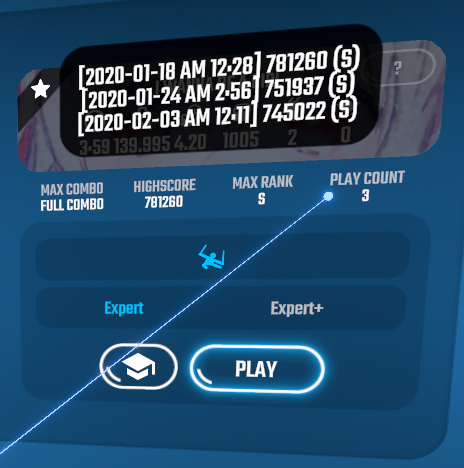
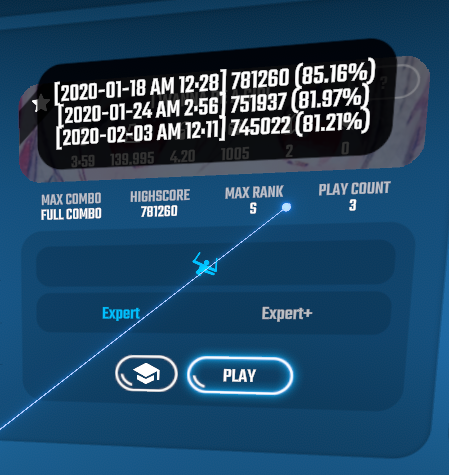
Show by percentage and fix bugs
- Do not save failed records

diff --git a/SongPlayHistory/PlayerStatsUIOverload.cs b/SongPlayHistory/PlayerStatsUIOverload.cs
@@ -14,9 +14,9 @@ namespace SongPlayHistory
     {
         public static PlayerStatsUIOverload Instance;
 
+        private bool _isInitialized = false;
         private StandardLevelDetailViewController _levelDetailViewController;
         private GameObject _playerStatsContainer;
-        private Button _hiddenButton;
         private HoverHint _hoverHint;
         private RectTransform _playCountRect;
 
@@ -97,6 +97,9 @@ namespace SongPlayHistory
 
         private void Initialize()
         {
+            if (_isInitialized)
+                return;
+
             // Find components of our interest.
             var flowCoordinator = Resources.FindObjectsOfTypeAll<SoloFreePlayFlowCoordinator>().First();
             var resultsViewController = flowCoordinator.GetPrivateField<ResultsViewController>("_resultsViewController");
@@ -106,22 +109,19 @@ namespace SongPlayHistory
             _playerStatsContainer = standardLevelDetailView.GetPrivateField<GameObject>("_playerStatsContainer");
 
             // Create a virtual button for score display.
-            if (_hiddenButton == null)
+            var playButton = Resources.FindObjectsOfTypeAll<Button>().First(x => x.name == "PlayButton");
+            var hiddenButton = Instantiate(playButton, _playerStatsContainer.transform);
+            (hiddenButton.transform as RectTransform).SetInsetAndSizeFromParentEdge(RectTransform.Edge.Left, 0.0f, 70.0f);
+            foreach (var tf in hiddenButton.GetComponentsInChildren<Transform>())
             {
-                var playButton = Resources.FindObjectsOfTypeAll<Button>().First(x => x.name == "PlayButton");
-                _hiddenButton = Instantiate(playButton, _playerStatsContainer.transform);
-                (_hiddenButton.transform as RectTransform).SetInsetAndSizeFromParentEdge(RectTransform.Edge.Left, 0.0f, 70.0f);
-                foreach (var tf in _hiddenButton.GetComponentsInChildren<Transform>())
-                {
-                    if (new[] { "BG", "GlowContainer", "Stroke", "Text" }.Contains(tf.name))
-                        Destroy(tf.gameObject);
-                }
-                var hoverHintController = Resources.FindObjectsOfTypeAll<HoverHintController>().First();
-                var hoverHintHolder = _hiddenButton.GetComponentsInChildren<StackLayoutGroup>().First();
-                _hoverHint = hoverHintHolder.gameObject.AddComponent<HoverHint>();
-                _hoverHint.SetPrivateField("_hoverHintController", hoverHintController);
-                _hoverHint.name = name;
+                if (new[] { "BG", "GlowContainer", "Stroke", "Text" }.Contains(tf.name))
+                    Destroy(tf.gameObject);
             }
+            var hoverHintController = Resources.FindObjectsOfTypeAll<HoverHintController>().First();
+            var hoverHintHolder = hiddenButton.GetComponentsInChildren<StackLayoutGroup>().First();
+            _hoverHint = hoverHintHolder.gameObject.AddComponent<HoverHint>();
+            _hoverHint.SetPrivateField("_hoverHintController", hoverHintController);
+            _hoverHint.name = name;
 
             // Install event handlers.
             _levelDetailViewController.didChangeDifficultyBeatmapEvent -= OnDidChangeDifficultyBeatmap;
@@ -134,6 +134,7 @@ namespace SongPlayHistory
             resultsViewController.restartButtonPressedEvent += OnPlayResultDismiss;
 
             Logger.Log?.Debug($"Finished initializing {name}.");
+            _isInitialized = true;
         }
 
         internal void Refresh()
@@ -160,15 +161,18 @@ namespace SongPlayHistory
             if (config.Scores.TryGetValue(difficulty, out IList<Score> scoreList))
             {
                 // Note: Max lines = 9
-                var scores = scoreList.OrderByDescending(s => config.SortByDate ? s.Date : s.ModifiedScore).Take(9);
-                if (scores.Count() > 0)
+                var orderedList = scoreList.OrderByDescending(s => config.SortByDate ? s.Date : s.ModifiedScore).Take(9);
+                if (orderedList.Count() > 0)
                 {
+                    var maxRawScore = ScoreController.MaxRawScoreForNumberOfNotes(beatmap.beatmapData.notesCount);
                     StringBuilder builder = new StringBuilder(200);
 
-                    foreach (var score in scores)
+                    foreach (var elem in orderedList)
                     {
-                        var localDateTime = DateTimeOffset.FromUnixTimeMilliseconds(score.Date).LocalDateTime;
-                        builder.AppendLine($"[{localDateTime.ToString("g")}] {score.ModifiedScore} ({(RankModel.Rank)score.Rank})");
+                        var localDateTime = DateTimeOffset.FromUnixTimeMilliseconds(elem.Date).LocalDateTime;
+                        var modifiedScore = elem.ModifiedScore + (elem.RawScore != elem.ModifiedScore ? "*" : "");
+                        var accuracy = elem.RawScore / (float)maxRawScore * 100f;
+                        builder.AppendLine($"[{localDateTime.ToString("g")}] {modifiedScore} ({accuracy:0.00}%)");
                     }
 
                     _hoverHint.text = builder.ToString();
@@ -247,39 +251,42 @@ namespace SongPlayHistory
 
         private void OnPlayResultDismiss(ResultsViewController resultsViewController)
         {
-            // Get the last play result.
             var lastResult = resultsViewController.GetPrivateField<LevelCompletionResults>("_levelCompletionResults");
-            var lastBeatmap = resultsViewController.GetPrivateField<IDifficultyBeatmap>("_difficultyBeatmap");
-            var unixDateTime = DateTimeOffset.Now.ToUnixTimeMilliseconds();
 
-            var beatmapCharacteristicName = lastBeatmap.parentDifficultyBeatmapSet.beatmapCharacteristic.serializedName;
-            var difficulty = $"{lastBeatmap.level.levelID}___{(int)lastBeatmap.difficulty}___{beatmapCharacteristicName}";
-            var score = new Score
+            // Do not save failed records.
+            if (lastResult.levelEndStateType == LevelCompletionResults.LevelEndStateType.Cleared)
             {
-                Date = unixDateTime,
-                ModifiedScore = lastResult.modifiedScore,
-                RawScore = lastResult.rawScore,
-                Rank = (int)lastResult.rank,
-                FullCombo = lastResult.fullCombo,
-                MissedCount = lastResult.missedCount,
-                MaxCombo = lastResult.maxCombo
-            };
+                var lastBeatmap = resultsViewController.GetPrivateField<IDifficultyBeatmap>("_difficultyBeatmap");
+                var unixDateTime = DateTimeOffset.Now.ToUnixTimeMilliseconds();
 
-            // Save the result to the plugin config file.
-            var config = Plugin.Config?.Value;
-            if (config == null || Plugin.ConfigProvider == null)
-            {
-                Logger.Log?.Warn($"The config provider is not initialized. Unable to save scores.");
-            }
-            else
-            {
-                if (!config.Scores.ContainsKey(difficulty))
+                var beatmapCharacteristicName = lastBeatmap.parentDifficultyBeatmapSet.beatmapCharacteristic.serializedName;
+                var difficulty = $"{lastBeatmap.level.levelID}___{(int)lastBeatmap.difficulty}___{beatmapCharacteristicName}";
+                var score = new Score
                 {
-                    config.Scores.Add(difficulty, new List<Score>());
-                }
-                config.Scores[difficulty].Add(score);
+                    Date = unixDateTime,
+                    ModifiedScore = lastResult.modifiedScore,
+                    RawScore = lastResult.rawScore,
+                    Rank = (int)lastResult.rank,
+                    FullCombo = lastResult.fullCombo,
+                    MissedCount = lastResult.missedCount,
+                    MaxCombo = lastResult.maxCombo
+                };
 
-                Plugin.ConfigProvider.Store(config);
+                var config = Plugin.Config?.Value;
+                if (config == null || Plugin.ConfigProvider == null)
+                {
+                    Logger.Log?.Warn($"The config provider is not initialized. Unable to save scores.");
+                }
+                else
+                {
+                    if (!config.Scores.ContainsKey(difficulty))
+                    {
+                        config.Scores.Add(difficulty, new List<Score>());
+                    }
+                    config.Scores[difficulty].Add(score);
+
+                    Plugin.ConfigProvider.Store(config);
+                }
             }
 
             Refresh();
